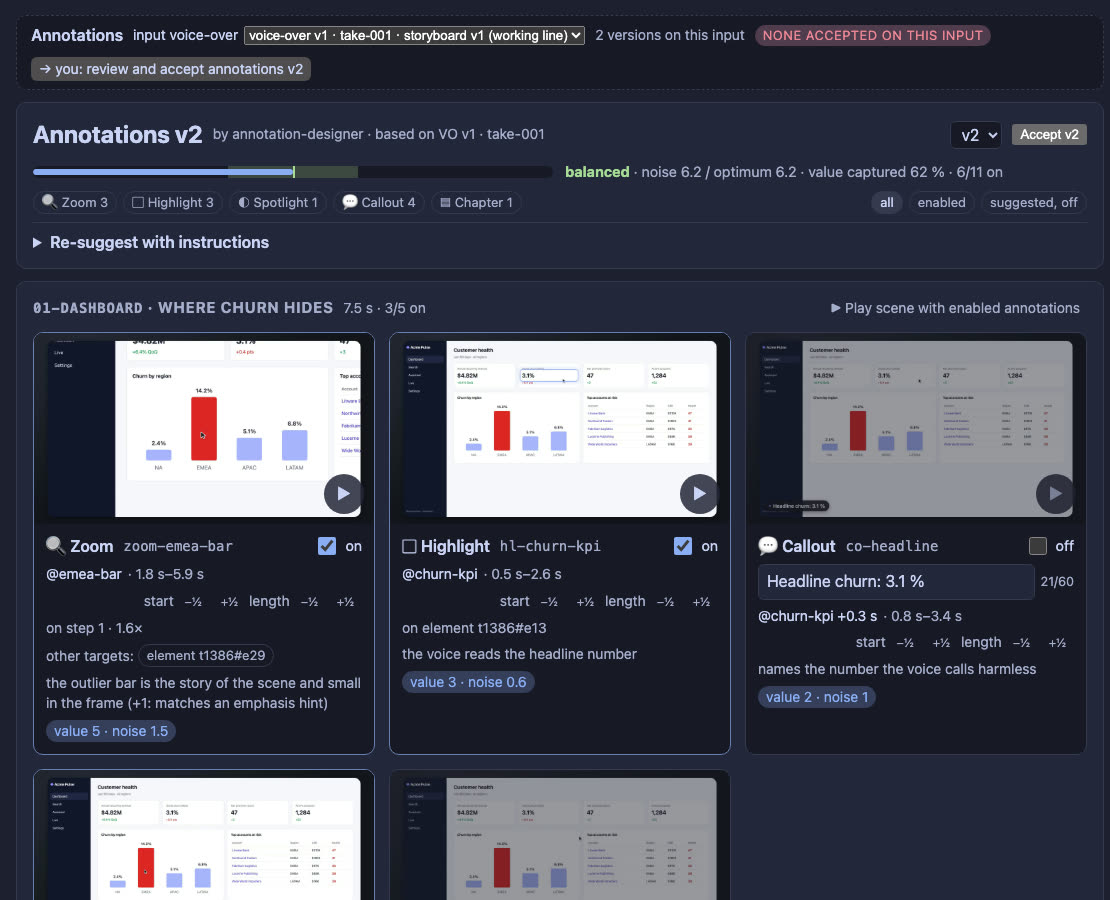
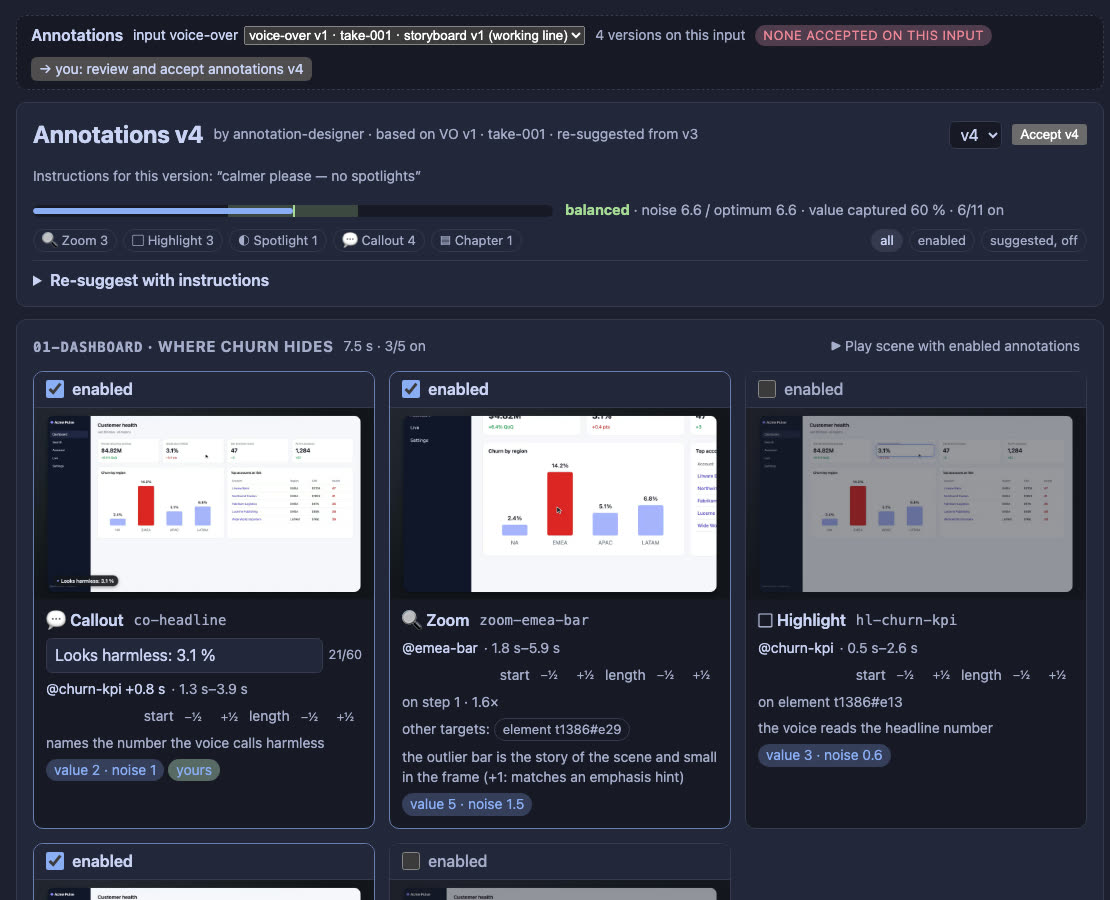
demo-recording S5 part 8: annotation cards — 'enabled' checkbox on top, click a still for a large preview, click again to play the clip (960×540)

diff --git a/extensions/demo-recording/src/panel/public/annotations.js b/extensions/demo-recording/src/panel/public/annotations.js
@@ -1,6 +1,6 @@
 // demo-recording panel — Annotations tab (S5 part 8, D53–D58): the designer's
 // suggestions per scene as cards (still eager, clip on click), toggles, inline
-// text, ±0.5 s nudges, target choices, a budget meter, filters, an unsaved
+// text, ±0.5 s nudges, target choices, a large preview popup (click the still to play), a budget meter, filters, an unsaved
 // draft with Save / Discard, Re-suggest with instructions, and a low-res scene
 // draft with every enabled annotation.
 import { html, useEffect, useState } from "/vendor/preact-htm.module.js";
@@ -67,11 +67,9 @@ function BudgetMeter({ budget }) {
   </div>`;
 }
 
-function Preview({ version, item }) {
+function Preview({ version, item, onOpen }) {
   const [still, setStill] = useState(null);
   const [updating, setUpdating] = useState(false);
-  const [clip, setClip] = useState(null);
-  const [busy, setBusy] = useState(false);
   const [err, setErr] = useState(null);
   const key = JSON.stringify([
     version,
@@ -87,7 +85,6 @@ function Preview({ version, item }) {
   useEffect(() => {
     let live = true;
     setUpdating(true);
-    setClip(null);
     setErr(null);
     queued(() => post("/api/annotation-preview", { version, id: item.id, kind: "still" })).then(
       (r) => {
@@ -105,8 +102,30 @@ function Preview({ version, item }) {
       live = false;
     };
   }, [key]);
+  if (err) return html`<div class="ann-thumb missing" title=${err}>no preview: ${err}</div>`;
+  return html`<button class=${`ann-thumb ${updating && still ? "updating" : ""}`} disabled=${!still}
+      title="open larger — click the big image to play the clip" aria-label=${`open the preview of ${item.id}`}
+      onClick=${() => still && onOpen({ item, version, still })}>
+    ${still ? html`<img src=${media("project", still)} alt=${`${item.type} preview`} loading="lazy" />` : html`<div class="ann-loading">rendering still…</div>`}
+    ${still ? html`<span class="enlarge" aria-hidden="true">⤢</span>` : null}
+  </button>`;
+}
+
+/** The big preview: the still first; a click on it renders (cached) and plays the clip. */
+function Lightbox({ open, onClose }) {
+  const [clip, setClip] = useState(null);
+  const [busy, setBusy] = useState(false);
+  const [err, setErr] = useState(null);
+  const { item, version, still } = open;
+  useEffect(() => {
+    const onKey = (e) => e.key === "Escape" && onClose();
+    window.addEventListener("keydown", onKey);
+    return () => window.removeEventListener("keydown", onKey);
+  }, [onClose]);
   const play = async () => {
+    if (busy || clip) return;
     setBusy(true);
+    setErr(null);
     try {
       const r = await queued(() =>
         post("/api/annotation-preview", { version, id: item.id, kind: "clip" }),
@@ -118,12 +137,25 @@ function Preview({ version, item }) {
       setBusy(false);
     }
   };
-  if (err) return html`<div class="ann-thumb missing" title=${err}>no preview: ${err}</div>`;
-  if (clip)
-    return html`<video class="ann-thumb" src=${media("project", clip)} controls autoplay muted playsinline></video>`;
-  return html`<div class=${`ann-thumb ${updating && still ? "updating" : ""}`}>
-    ${still ? html`<img src=${media("project", still)} alt=${`${item.type} preview`} loading="lazy" />` : html`<div class="ann-loading">rendering still…</div>`}
-    <button class="play" disabled=${busy} title="render and play a short clip around this annotation (640×360, cached)" onClick=${play}>${busy ? "…" : "▶"}</button>
+  return html`<div class="lightbox" role="dialog" aria-modal="true" aria-label=${`${LABEL[item.type]} ${item.id}`}
+      onClick=${(e) => e.target === e.currentTarget && onClose()}>
+    <figure class="lightbox-box">
+      <button class="lightbox-close ghost" title="close (Esc)" aria-label="close" onClick=${onClose}>×</button>
+      ${
+        clip
+          ? html`<video src=${media("project", clip)} controls autoplay playsinline></video>`
+          : html`<button class="lightbox-still" title="play the clip around this annotation" onClick=${play}>
+              <img src=${media("project", still)} alt=${`${item.type} preview`} />
+              <span class=${`lightbox-play ${busy ? "busy" : ""}`}>${busy ? "rendering clip…" : "▶ play clip"}</span>
+            </button>`
+      }
+      <figcaption>
+        <b>${ICON[item.type]} ${LABEL[item.type]}</b> <span class="mono muted">${item.id}</span>
+        ${item.text ? html` · “${item.text}”` : null}
+        <span class="muted"> · ${anchorLabel(item.anchor)}${item.enabled ? "" : " · off"}</span>
+        ${err ? html`<span class="error"> · ${err}</span>` : null}
+      </figcaption>
+    </figure>
   </div>`;
 }
 
@@ -139,22 +171,23 @@ function TextEdit({ item, onSave }) {
   </div>`;
 }
 
-function AnnotationCard({ item, res, version, edit }) {
+function AnnotationCard({ item, res, version, edit, onOpen }) {
   const problem = res && "problem" in res ? res.problem : null;
   const privacy = item.type === "redact" && (item.reason ?? "").startsWith("privacy:");
   const touched =
     item.origin === "edited" || item.origin === "manual" || (item.edits?.length ?? 0) > 0;
   return html`<article class=${`ann-card ${item.enabled ? "on" : "off"} ${problem ? "problem" : ""}`}>
-    <${Preview} version=${version} item=${item} />
+    <div class="ann-top">
+      <label class="ann-enabled" title=${item.enabled ? "in the render" : "not rendered — tick to use it"}>
+        <input type="checkbox" checked=${item.enabled} onChange=${(e) => edit({ op: "toggle", id: item.id, enabled: e.target.checked })} />
+        enabled
+      </label>
+    </div>
+    <${Preview} version=${version} item=${item} onOpen=${onOpen} />
     <div class="ann-body">
       <div class="row">
         <span class="ann-type" title=${LABEL[item.type]}>${ICON[item.type]} ${LABEL[item.type]}</span>
         <span class="muted small-text mono">${item.id}</span>
-        <span class="grow"></span>
-        <label class="switch" title=${item.enabled ? "on — in the render" : "off — not rendered"}>
-          <input type="checkbox" checked=${item.enabled} onChange=${(e) => edit({ op: "toggle", id: item.id, enabled: e.target.checked })} />
-          <span>${item.enabled ? "on" : "off"}</span>
-        </label>
       </div>
       ${item.type === "callout" || item.type === "chapter" ? html`<${TextEdit} item=${item} onSave=${(text) => edit({ op: "text", id: item.id, text })} />` : null}
       <div class="ann-when small-text">
@@ -262,6 +295,7 @@ export function Annotations({ events, stages }) {
   const [state, setState] = useState("all");
   const [flash, setFlash] = useState(null);
   const [view, setView] = useState(null);
+  const [lightbox, setLightbox] = useState(null);
   // The edit routes answer with the new view; the next reload (bus event) replaces it.
   const d = view ?? data;
   useEffect(() => setView(null), [data]);
@@ -366,7 +400,8 @@ export function Annotations({ events, stages }) {
           <span class="grow"></span>
           <${SceneDraft} version=${d.version} scene=${sc.id} draftKey=${draftKey} />
         </div>
-        ${items.length ? html`<div class="ann-grid">${items.map((it) => html`<${AnnotationCard} key=${it.id} item=${it} res=${d.resolved[it.id]} version=${d.version} edit=${edit} />`)}</div>` : html`<p class="muted small-text">No annotations match the filter.</p>`}
+        ${items.length ? html`<div class="ann-grid">${items.map((it) => html`<${AnnotationCard} key=${it.id} item=${it} res=${d.resolved[it.id]} version=${d.version} edit=${edit} onOpen=${setLightbox} />`)}</div>` : html`<p class="muted small-text">No annotations match the filter.</p>`}
       </section>`;
-    })}`;
+    })}
+    ${lightbox ? html`<${Lightbox} open=${lightbox} onClose=${() => setLightbox(null)} />` : null}`;
 }

diff --git a/extensions/demo-recording/src/panel/public/style.css b/extensions/demo-recording/src/panel/public/style.css
@@ -1512,6 +1512,28 @@ p.emphasis {
   width: 100%;
   background: #000;
   display: block;
+  padding: 0;
+  border: none;
+  border-radius: 0;
+  cursor: zoom-in;
+}
+.ann-thumb:disabled {
+  cursor: progress;
+}
+.ann-thumb .enlarge {
+  position: absolute;
+  right: 8px;
+  bottom: 8px;
+  padding: 2px 8px;
+  border-radius: 6px;
+  background: color-mix(in srgb, var(--card) 80%, transparent);
+  color: var(--text);
+  opacity: 0;
+  transition: opacity 0.15s;
+}
+.ann-thumb:hover .enlarge,
+.ann-thumb:focus-visible .enlarge {
+  opacity: 1;
 }
 .ann-thumb img,
 video.ann-thumb {
@@ -1531,19 +1553,6 @@ video.ann-thumb {
   text-align: center;
   height: 100%;
   box-sizing: border-box;
-}
-.ann-thumb .play {
-  position: absolute;
-  right: 10px;
-  bottom: 10px;
-  width: 40px;
-  height: 40px;
-  border-radius: 50%;
-  border: none;
-  background: color-mix(in srgb, var(--card) 85%, transparent);
-  color: var(--text);
-  font-size: 16px;
-  cursor: pointer;
 }
 .ann-body {
   display: flex;
@@ -1612,18 +1621,6 @@ button.tiny {
 .pill.edited {
   background: color-mix(in srgb, var(--ok) 30%, var(--chip));
 }
-.switch {
-  display: inline-flex;
-  align-items: center;
-  gap: 6px;
-  cursor: pointer;
-  font-size: 0.9em;
-}
-.switch input {
-  width: 18px;
-  height: 18px;
-  accent-color: var(--accent);
-}
 .scene-draft {
   display: inline-flex;
   flex-direction: column;
@@ -1637,4 +1634,100 @@ button.tiny {
 .ann-thumb.updating img {
   opacity: 0.5;
   transition: opacity 0.2s;
+}
+.ann-top {
+  display: flex;
+  align-items: center;
+  padding: 6px 12px;
+  border-bottom: 1px solid var(--line);
+  background: var(--card);
+}
+.ann-enabled {
+  display: inline-flex;
+  align-items: center;
+  gap: 8px;
+  font-weight: 600;
+  cursor: pointer;
+}
+.ann-enabled input {
+  width: 18px;
+  height: 18px;
+  margin: 0;
+  accent-color: var(--accent);
+}
+.ann-card.off .ann-enabled {
+  color: var(--muted);
+  font-weight: 500;
+}
+.lightbox {
+  position: fixed;
+  inset: 0;
+  z-index: 100;
+  display: flex;
+  align-items: center;
+  justify-content: center;
+  padding: 24px;
+  background: rgba(0, 0, 0, 0.72);
+}
+.lightbox-box {
+  position: relative;
+  margin: 0;
+  width: min(1280px, 94vw);
+  max-height: 92vh;
+  display: flex;
+  flex-direction: column;
+  gap: 10px;
+  padding: 14px;
+  border-radius: 12px;
+  background: var(--card);
+  box-shadow: 0 20px 60px rgba(0, 0, 0, 0.5);
+}
+.lightbox-box img,
+.lightbox-box video {
+  display: block;
+  width: 100%;
+  max-height: calc(92vh - 90px);
+  object-fit: contain;
+  background: #000;
+  border-radius: 8px;
+}
+.lightbox-still {
+  position: relative;
+  padding: 0;
+  border: none;
+  background: none;
+  cursor: pointer;
+}
+.lightbox-play {
+  position: absolute;
+  left: 50%;
+  top: 50%;
+  transform: translate(-50%, -50%);
+  padding: 12px 22px;
+  border-radius: 999px;
+  background: color-mix(in srgb, var(--card) 88%, transparent);
+  color: var(--text);
+  font-weight: 600;
+  box-shadow: 0 6px 22px rgba(0, 0, 0, 0.35);
+}
+.lightbox-play.busy {
+  cursor: progress;
+}
+.lightbox-close {
+  position: absolute;
+  top: 22px;
+  right: 22px;
+  z-index: 1;
+  width: 36px;
+  height: 36px;
+  border-radius: 50%;
+  font-size: 22px;
+  line-height: 1;
+  padding: 0;
+  background: color-mix(in srgb, var(--card) 88%, transparent);
+  color: var(--text);
+  box-shadow: 0 2px 10px rgba(0, 0, 0, 0.35);
+}
+.lightbox figcaption {
+  font-size: 0.95em;
 }

diff --git a/extensions/demo-recording/src/panel/annotation-routes.ts b/extensions/demo-recording/src/panel/annotation-routes.ts
@@ -37,9 +37,10 @@ export interface AnnotationRouteDeps {
   publish: (type: string, data: Record<string, unknown>, project?: string) => void;
 }
 
-/** Card stills at 960×540 (sharp enough for a card), clips and scene drafts at 640×360 (D55). */
+/** Stills and clips at 960×540 (cards and the large preview popup); scene drafts at 640×360 (inline). */
 export const STILL_SIZE = { width: 960, height: 540 };
-export const CLIP_SIZE = { width: 640, height: 360 };
+export const CLIP_SIZE = { width: 960, height: 540 };
+export const SCENE_DRAFT_SIZE = { width: 640, height: 360 };
 
 /** Project-relative path; the panel turns it into a media URL with its token. */
 const media = (projectDir: string, file: string) =>
@@ -278,7 +279,7 @@ export function annotationRoutes(deps: AnnotationRouteDeps): {
           const { timeline } = timelineFor(p.dir, file.basedOn.vo);
           const b = await prepareBrand(
             p.dir,
-            { ...cfg, output: CLIP_SIZE },
+            { ...cfg, output: SCENE_DRAFT_SIZE },
             timeline.take,
             cfg.brand,
           );
@@ -290,7 +291,7 @@ export function annotationRoutes(deps: AnnotationRouteDeps): {
             brand: b.loaded,
             frame: b.frame,
             fps: cfg.fps,
-            output: CLIP_SIZE,
+            output: SCENE_DRAFT_SIZE,
             cacheDir: path.join(cfg.root, ".cache", "annotation-assets"),
             outDir: path.join(p.dir, "previews", "annotations", "scenes"),
           });

diff --git a/extensions/demo-recording/docs/VISION.md b/extensions/demo-recording/docs/VISION.md
@@ -87,7 +87,7 @@ Each stage is versioned and links to exactly one parent version (D30). Several v
 | D52 | Annotation designer (part 8 grill) | A **skill in the main agent** (D40 default): it reads a compact input pack from `demo_rec_annotations action=context` and submits suggestions; the engine resolves, weighs, adds privacy hits, picks the recommended set and writes the version | Visible in chat, your model, no extra model wiring; deterministic parts stay testable |
 | D53 | Auto-suggest | Suggestions start **automatically after the sync edit** (config `annotations.autoSuggest`, default on), plus a **Re-suggest** button with extra instructions | v1 is waiting when you open the tab; you can steer it |
 | D54 | Privacy suggestions | A **deterministic scan** of layout snapshots (emails, phones, keys/tokens/JWTs, IBAN/card-like numbers, long IDs) **plus the designer's judgement** on names; all disabled redact suggestions with reasons | Reproducible, cheap, and still catches names |
-| D55 | Annotation card previews | **Stills eager** (1-frame render at the peak, cached), **clips on click** (640×360, cached), a low-res scene draft with all enabled annotations | Fast to scan, motion on demand |
+| D55 | Annotation card previews | **Stills eager** (1-frame render at the peak, cached); a click opens a **large preview**, a click on it plays the **clip** (960×540, cached); a low-res scene draft (640×360) with all enabled annotations | Fast to scan, motion on demand |
 | D56 | Re-suggest | A new suggestion run **keeps every item the user added, edited or toggled**, regenerates the rest, and says what was kept | Steering never throws away your work |
 | D57 | Import from an older version | **Deterministic**: carry what still matches (scene, mark, resolvable target) with its edits; list the rest with a reason. No model call | Predictable carry-over after a new take or VO |
 | D58 | Saving annotation edits | Panel edits go to a **draft** (instant stills and budget); **Save as vN** writes one version; the draft survives reloads | No version per click, nothing lost |

diff --git a/extensions/demo-recording/docs/ANNOTATIONS.md b/extensions/demo-recording/docs/ANNOTATIONS.md
@@ -157,9 +157,12 @@ of the suggested value is switched on.
   made with, and the **budget meter**.
 - **Filters** by type and by *enabled* / *suggested, off*.
 - **One card per suggestion**, grouped by scene:
-  - a **still** at its peak moment, rendered right away and cached (▶ renders
-    and plays a 640×360 clip around it, with the voice);
-  - type, id and an **on/off** switch;
+  - an **enabled** checkbox at the top left, above the picture;
+  - a **still** at its peak moment, rendered right away and cached. **Click
+    it** to open a large preview; **click the large image** to render and play
+    a clip around the annotation (960×540, with the voice, cached). × or Esc
+    closes it;
+  - type and id;
   - the **text** (callouts, chapters; ≤ 60 characters, live counter);
   - when: its anchor and output time window, with **±½ s nudges** for start
     and length;
@@ -167,12 +170,14 @@ of the suggested value is switched on.
     switches);
   - the reason, value and noise, and tags: **privacy**, **yours** (you changed
     it), **can't place** (with why).
+![The large preview: click a card's still, then the image to play the clip](images/annotations/panel-popup.jpg)
+
 - **▶ Play scene with enabled annotations:** a low-res draft of the scene
   with everything that is on (chapters only appear in the full video).
 
 ![Unsaved changes: the draft bar](images/annotations/panel-draft.jpg)
 
-**Edits are a draft** (D58): every toggle, text edit, nudge or target switch
+**Edits are a draft** (D58): every enabled tick, text edit, nudge or target switch
 applies at once (stills and the budget update), shown as *N unsaved changes*.
 **Save as vN** writes one new version with all of them (each item keeps what
 you changed in its `edits`, and the save is logged in the project's inputs);

diff --git a/extensions/demo-recording/docs/IMPLEMENTATION_PLAN.md b/extensions/demo-recording/docs/IMPLEMENTATION_PLAN.md
@@ -816,7 +816,7 @@ measurably in sync (anchor drift p95 ≤ 150 ms) with dead time removed.
   - **Q7 value bonus:** "+1 for a VO match" means the narration at the anchor *mentions what the item shows* (a content word or number of the target's text, or of the callout). A bare narration anchor is not enough: almost every mark is one, which pushed everything to 5. Spotlights get no bonus.
   - **Recommended set:** value-5 items (must-haves) come first, then value per noise. Pure ratio order filled the half with cheap highlights and left the demo's key zoom off.
   - **Placement:** checked one item at a time, so two zoom candidates for the same moment don't knock each other out.
-  - **Stills:** 960×540 (sharp enough on a card); clips and scene drafts 640×360.
+  - **Previews (user feedback):** a click on a card's still opens a large popup; a click on the image there renders and plays the clip. Stills and clips are 960×540, sharp enough for the popup; scene drafts stay 640×360, inline. The card's on/off switch became one **enabled** checkbox at the top left of the card.
   - **Input pack:** privacy hits are masked; long texts (an assistant's answer) are kept, truncated for display.
   - **Accepting:** refused while the version has unsaved draft changes. The agent then re-renders with `demo_rec_edit action=rerender annotations=N`.
 - **Annotation designer = a skill in the main agent (D52).** `skills/demo-annotations` (Annotation designer + Privacy officer). The agent reads a compact **input pack** from `demo_rec_annotations action=context` and submits suggestions with `action=suggest`; the engine does everything deterministic.
